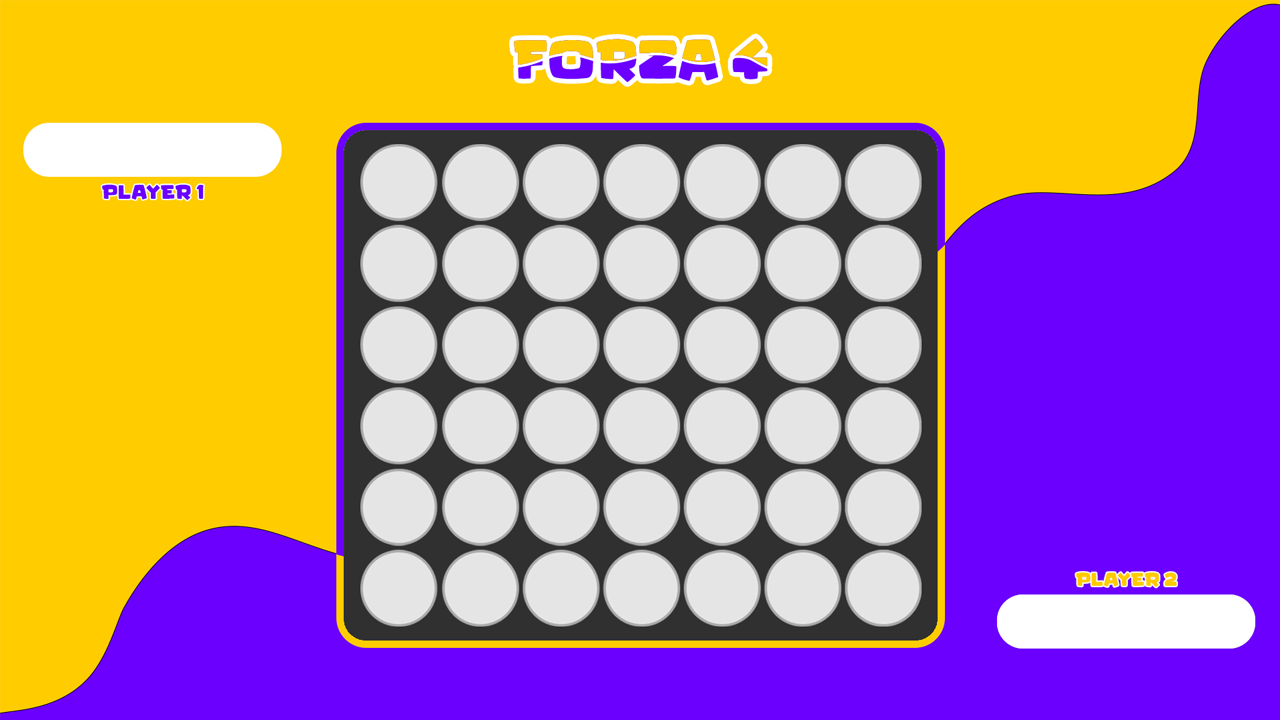
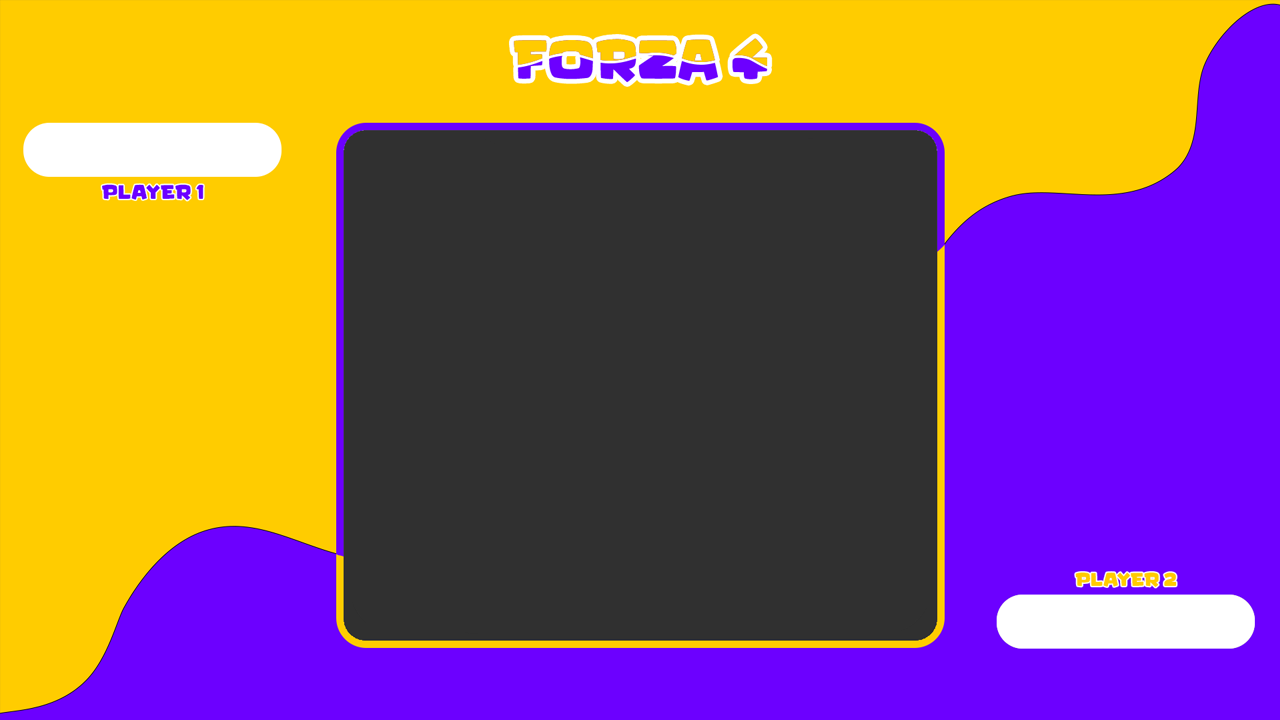
Modifiche alla gui ogni buco della griglia ora é una label salvata ina matrice, in questo modo può essere successivamente sostituita da una pedina semplicemente operanddo sulla matrice. i metodi per l'inserimento non sono funzionanti, vanno fixati

Changed region(s): [[0.2812, 0.1833, 0.7188, 0.8861], [0.8438, 0.7944, 0.9375, 0.825], [0.4688, 0.0917, 0.5, 0.1222]]

diff --git a/src/game.java b/src/game.java
@@ -9,6 +9,7 @@ import javax.swing.ImageIcon;
 import javax.swing.JPanel;
 import java.awt.Insets;
 import javax.swing.SwingConstants;
+import javax.swing.UIManager;
 import javax.swing.JLayeredPane;
 import javax.swing.JInternalFrame;
 import java.awt.Toolkit;
@@ -16,10 +17,17 @@ import java.awt.CardLayout;
 import java.awt.Color;
 import java.awt.Font;
 import javax.swing.JButton;
+import javax.swing.AbstractAction;
+import java.awt.event.ActionEvent;
+import javax.swing.Action;
+import java.awt.event.MouseAdapter;
+import java.awt.event.MouseEvent;
+import java.awt.event.ActionListener;
 
 public class game {
 
 	private JFrame frame;
+	private  Action Insertion ;
 
 	/**
 	 * Launch the application.
@@ -44,11 +52,62 @@ public class game {
 	public game() {
 		initialize();
 	}
+	
+	private int changePlayer(int p) {
+		if (p == 1) {
+			p = 2;
+		}
+		else {
+			p = 1;
+		}
+		return p;
+	}
+	
+	private static boolean graphicInsert(Grid grid, int column,int p, JLabel [][] holes) {
+		int row = grid.getrow(column);
+		JLabel disc = holes[row][column];
+		boolean result = grid.insert(column, p);
+		
+		if (result) {
+			insertDisc(column,row,p,disc);
+		}
+		else {
+			//error message
+		}
+		return result;
+	}
+	
+	private static void spawnDiscs(String path,JLabel disc) {
+		disc.setIcon(new ImageIcon(path));
+		
+	}
+	
+	private static void insertDisc(int column,int row,int p,JLabel disc) {
+		String path;
+		if(p == 0 ) {
+			 path = "src/yellow.png" ;
+			
+		}
+		else {
+			path = "src/purple.png" ;
+		}
+		spawnDiscs(path,disc);
+		
+	}
+	
+	
 
 	/**
 	 * Initialize the contents of the frame.
 	 */
 	private void initialize() {
+		
+		Grid grid = new Grid();
+		boolean result = false;
+		int p = 1;
+		
+		
+		//---------------------------------------------------------------------------------------------------------------------
 		frame = new JFrame();
 		frame.setIconImage(Toolkit.getDefaultToolkit().getImage("D:\\Desktop\\forza4\\icon.png"));
 		frame.setResizable(false);
@@ -61,15 +120,16 @@ public class game {
 		frame.getContentPane().add(layeredPane);
 		
 		JLabel lblNewLabel = new JLabel("");
+		lblNewLabel.setHorizontalAlignment(SwingConstants.CENTER);
 		lblNewLabel.setIcon(new ImageIcon("C:\\Users\\Administrator\\eclipse-workspace\\forza 4\\src\\match_background.png"));
-		lblNewLabel.setBounds(0, 0, 1280, 720);
+		lblNewLabel.setBounds(0, 0, 1274, 694);
 		layeredPane.add(lblNewLabel);
 		
 		JLabel lblp1 = new JLabel("FRANCESCO");
 		lblp1.setHorizontalAlignment(SwingConstants.CENTER);
 		lblp1.setFont(new Font("Kid Games", Font.PLAIN, 28));
 		layeredPane.setLayer(lblp1, 1);
-		lblp1.setBounds(40, 120, 224, 36);
+		lblp1.setBounds(41, 121, 224, 36);
 		Color purple = new Color(108,0,255);
 		lblp1.setForeground(purple);
 		layeredPane.add(lblp1);
@@ -78,20 +138,208 @@ public class game {
 		lblp2.setHorizontalAlignment(SwingConstants.CENTER);
 		lblp2.setFont(new Font("Kid Games", Font.PLAIN, 28));
 		layeredPane.setLayer(lblp2, 1);
-		lblp2.setBounds(1016, 589, 224, 36);
+		lblp2.setBounds(1013, 590, 224, 36);
 		Color myellow = new Color(255,204,0);
 		lblp2.setForeground(myellow);
 		layeredPane.add(lblp2);
 		
+		Color transyellow=new Color(1f,1f,0f,.5f );
+		
+		JLabel [][] holes = new JLabel [6] [7];
+		
+		int x = 350;
+		int y = 539;
+		for(int i = 0; i<6; i++) {
+			for(int j = 0; j<7; j++) {
+				holes[i][j] = new JLabel("");
+				layeredPane.setLayer(holes[i][j], 1);
+				holes[i][j].setIcon(new ImageIcon("C:\\\\Users\\\\Administrator\\\\eclipse-workspace\\\\forza 4\\\\src\\\\hole.png"));
+				holes[i][j].setBounds(x + j * 82, y - i*82 , 80, 80);
+				layeredPane.add(holes[i][j]);
+				
+			}
+		}
+		
+		
+		
+		//--------------------------------------------------------------------BOTTONI------------------------------------------------------
 		JButton btnColumn0 = new JButton("");
+		btnColumn0.addMouseListener(new MouseAdapter() {
+			@Override
+			public void mouseEntered(MouseEvent e) {
+				btnColumn0.setOpaque(true);
+				btnColumn0.setBackground(transyellow);
+			}
+		
+			@Override
+			public void mouseExited(MouseEvent e) {
+				btnColumn0.setOpaque(false);
+				btnColumn0.setBackground(UIManager.getColor("control"));
+			}
+			
+		});
+		btnColumn0.addActionListener(new Insertion(grid,p,0,holes));
+		btnColumn0.setAction(Insertion);
 		btnColumn0.setOpaque(false);
 		btnColumn0.setContentAreaFilled(false);
 		btnColumn0.setBorderPainted(false);
 		layeredPane.setLayer(btnColumn0, 1);
-		btnColumn0.setBounds(366, 135, 67, 471);
+		btnColumn0.setBounds(350, 129, 80, 488);
 		layeredPane.add(btnColumn0);
 		
+		JButton btnColumn1 = new JButton("");
+		btnColumn1.addMouseListener(new MouseAdapter() {
+			@Override
+			public void mouseEntered(MouseEvent e) {
+				btnColumn1.setOpaque(true);
+				btnColumn1.setBackground(transyellow);
+			}
+		
+			@Override
+			public void mouseExited(MouseEvent e) {
+				btnColumn1.setOpaque(false);
+				btnColumn1.setBackground(UIManager.getColor("control"));
+			}
+		});
+		layeredPane.setLayer(btnColumn1, 1);
+		btnColumn1.setOpaque(false);
+		btnColumn1.setContentAreaFilled(false);
+		btnColumn1.setBorderPainted(false);
+		btnColumn1.setBounds(432, 128, 80, 488);
+		layeredPane.add(btnColumn1);
+		
+		JButton btnColumn2 = new JButton("");
+		layeredPane.setLayer(btnColumn2, 1);
+		btnColumn2.addMouseListener(new MouseAdapter() {
+			@Override
+			public void mouseEntered(MouseEvent e) {
+				btnColumn2.setOpaque(true);
+				btnColumn2.setBackground(transyellow);
+			}
+		
+			@Override
+			public void mouseExited(MouseEvent e) {
+				btnColumn2.setOpaque(false);
+				btnColumn2.setBackground(UIManager.getColor("control"));
+			}
+		});
+		btnColumn2.setOpaque(false);
+		btnColumn2.setContentAreaFilled(false);
+		btnColumn2.setBorderPainted(false);
+		btnColumn2.setBounds(514, 129, 80, 488);
+		layeredPane.add(btnColumn2);
+		
+		JButton btnColumn3 = new JButton("");
+		layeredPane.setLayer(btnColumn3, 1);
+		btnColumn3.addMouseListener(new MouseAdapter() {
+			@Override
+			public void mouseEntered(MouseEvent e) {
+				btnColumn3.setOpaque(true);
+				btnColumn3.setBackground(transyellow);
+			}
+		
+			@Override
+			public void mouseExited(MouseEvent e) {
+				btnColumn3.setOpaque(false);
+				btnColumn3.setBackground(UIManager.getColor("control"));
+			}
+		});
+		btnColumn3.setOpaque(false);
+		btnColumn3.setContentAreaFilled(false);
+		btnColumn3.setBorderPainted(false);
+		btnColumn3.setBounds(596, 129, 80, 488);
+		layeredPane.add(btnColumn3);
+		
+		JButton btnColumn4 = new JButton("");
+		layeredPane.setLayer(btnColumn4, 1);
+		btnColumn4.addMouseListener(new MouseAdapter() {
+			@Override
+			public void mouseEntered(MouseEvent e) {
+				btnColumn4.setOpaque(true);
+				btnColumn4.setBackground(transyellow);
+			}
+		
+			@Override
+			public void mouseExited(MouseEvent e) {
+				btnColumn4.setOpaque(false);
+				btnColumn4.setBackground(UIManager.getColor("control"));
+			}
+		});
+		btnColumn4.setOpaque(false);
+		btnColumn4.setContentAreaFilled(false);
+		btnColumn4.setBorderPainted(false);
+		btnColumn4.setBounds(678, 129, 80, 488);
+		layeredPane.add(btnColumn4);
+		
+		JButton btnColumn5 = new JButton("");
+		layeredPane.setLayer(btnColumn5, 1);
+		btnColumn5.addMouseListener(new MouseAdapter() {
+			@Override
+			public void mouseEntered(MouseEvent e) {
+				btnColumn5.setOpaque(true);
+				btnColumn5.setBackground(transyellow);
+			}
+		
+			@Override
+			public void mouseExited(MouseEvent e) {
+				btnColumn5.setOpaque(false);
+				btnColumn5.setBackground(UIManager.getColor("control"));
+			}
+		});
+		btnColumn5.setOpaque(false);
+		btnColumn5.setContentAreaFilled(false);
+		btnColumn5.setBorderPainted(false);
+		btnColumn5.setBounds(760, 129, 80, 488);
+		layeredPane.add(btnColumn5);
+		
+		JButton btnColumn6 = new JButton("");
+		layeredPane.setLayer(btnColumn6, 1);
+		btnColumn6.addMouseListener(new MouseAdapter() {
+			@Override
+			public void mouseEntered(MouseEvent e) {
+				btnColumn6.setOpaque(true);
+				
+				btnColumn6.setBackground(transyellow);
+			}
+		
+			@Override
+			public void mouseExited(MouseEvent e) {
+				btnColumn6.setOpaque(false);
+				btnColumn6.setBackground(UIManager.getColor("control"));
+			}
+		});
+		btnColumn6.setOpaque(false);
+		btnColumn6.setContentAreaFilled(false);
+		btnColumn6.setBorderPainted(false);
+		btnColumn6.setBounds(842, 129, 80, 488);
+		layeredPane.add(btnColumn6);
 		
 		
+		
+		
+
+		
+		
+		//--------------------------------------------------------------------BOTTONI------------------------------------------------------
+		
+		
+	}
+
+	private class Insertion extends AbstractAction {
+		
+		private boolean result;
+		
+		public Insertion(Grid grid,int p, int column,JLabel [][] holes) {
+			putValue(NAME, "Insertion");
+			putValue(SHORT_DESCRIPTION, "inserimento di una pedina in una colonna");
+			graphicInsert( grid,  column, p,holes);
+			
+			
+		}
+		public void actionPerformed(ActionEvent e) {
+			if(!this.result) {
+				//messaggio errore
+			}
+		}
 	}
 }
